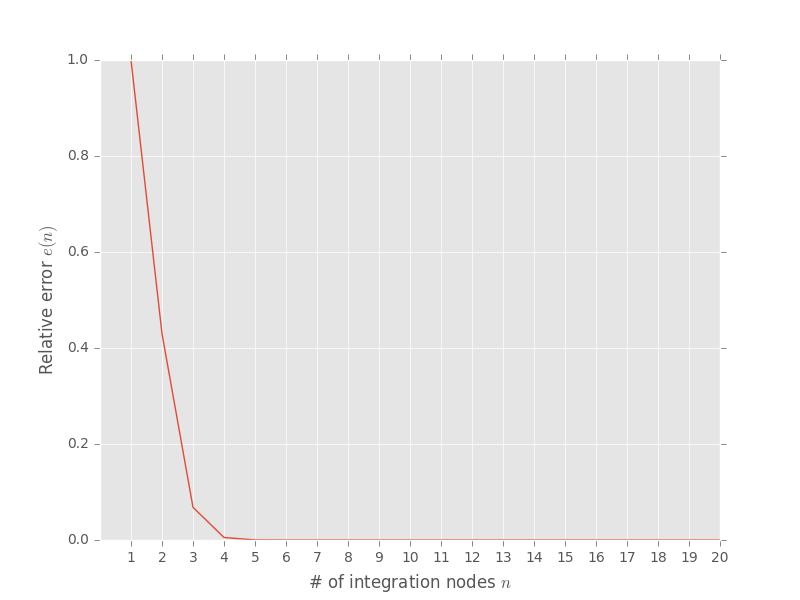
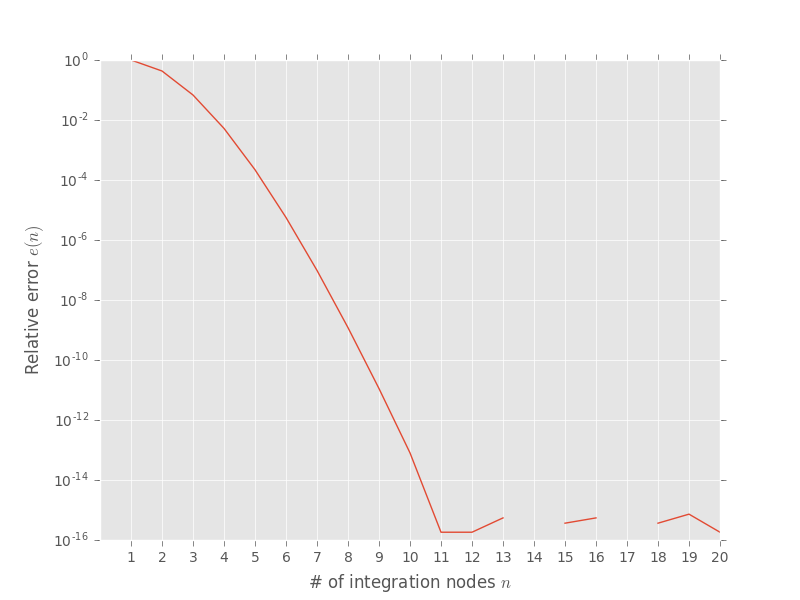
plot() -> semilogy() for plotting error. Updated figures

diff --git a/Quadrature_Analysis.py b/Quadrature_Analysis.py
@@ -30,7 +30,7 @@ def Convergence_Graph(ASCFILE,n1,n2):
             n[i]        = int(temp[1])
         print("File successfully read.")
         
-    plt.plot(n,error)
+    plt.semilogy(n,error)
     plt.xlabel(r'# of integration nodes $n$')
     plt.ylabel(r'Relative error $e(n)$')
     plt.xticks(np.arange(n1, n2+1, 1.0))
